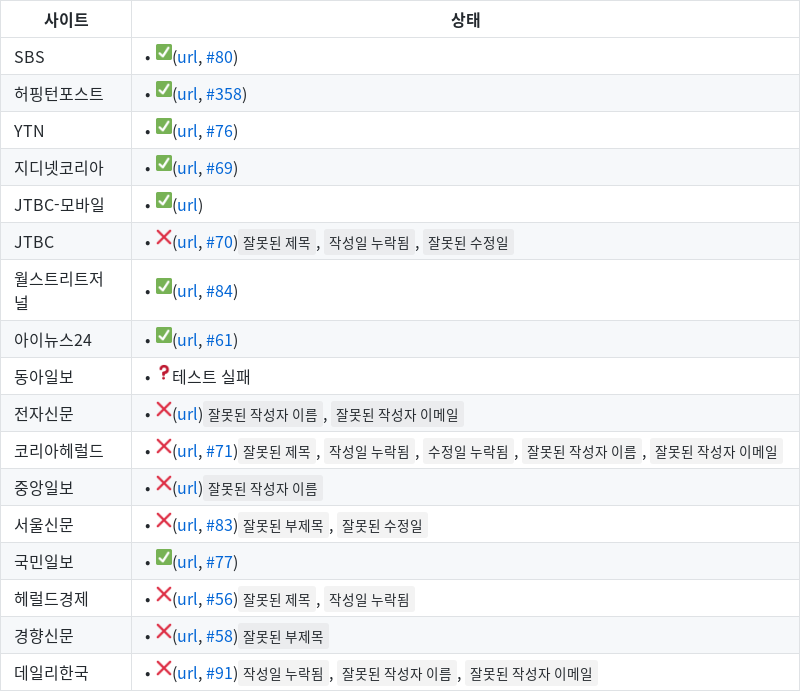
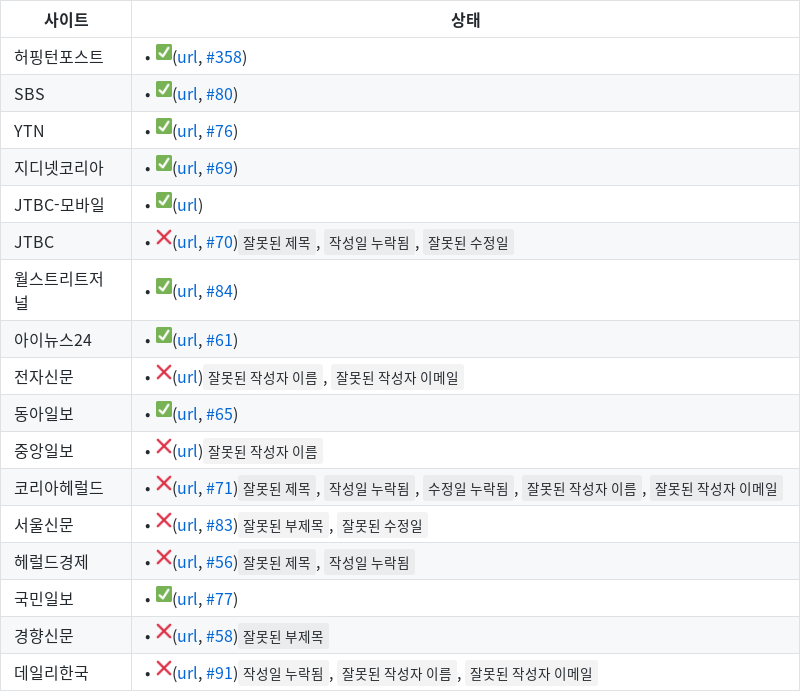
Thu Oct 15 00:53:39 UTC 2020

diff --git a/health-check.md b/health-check.md
@@ -1,19 +1,19 @@
 | 사이트 | 상태 |
 |------|-------|
-| SBS | • ✅([url](https://news.sbs.co.kr/news/endPage.do?news_id=N1002697236), [#80](https://github.com/disjukr/just-news/issues/#80)) |
 | 허핑턴포스트 | • ✅([url](https://www.huffingtonpost.kr/entry/story_kr_5d36a558e4b004b6adb5029c?9e4), [#358](https://github.com/disjukr/just-news/issues/#358)) |
+| SBS | • ✅([url](https://news.sbs.co.kr/news/endPage.do?news_id=N1002697236), [#80](https://github.com/disjukr/just-news/issues/#80)) |
 | YTN | • ✅([url](https://www.ytn.co.kr/_ln/0103_201411190800481989), [#76](https://github.com/disjukr/just-news/issues/#76)) |
 | 지디넷코리아 | • ✅([url](http://www.zdnet.co.kr/view/?no=20141104074223), [#69](https://github.com/disjukr/just-news/issues/#69)) |
 | JTBC-모바일 | • ✅([url](http://mnews.jtbc.joins.com/News/Article.aspx?news_id=NB11866214)) |
 | JTBC | • ❌([url](http://news.jtbc.joins.com/article/article.aspx?news_id=NB10639468), [#70](https://github.com/disjukr/just-news/issues/#70))`잘못된 제목`, `작성일 누락됨`, `잘못된 수정일` |
 | 월스트리트저널 | • ✅([url](https://realtime.wsj.com/korea/2014/10/13/%EB%B0%95%EC%9B%90%EC%88%9C-%EC%84%9C%EC%9A%B8%EC%8B%9C%EC%9E%A5-%EB%AF%B8%EA%B5%AD-%EC%96%B8%EB%A1%A0%EC%97%90-%EB%8F%99%EC%84%B1%EA%B2%B0%ED%98%BC-%EC%A7%80%EC%A7%80-%EB%B0%9C%EC%96%B8/), [#84](https://github.com/disjukr/just-news/issues/#84)) |
 | 아이뉴스24 | • ✅([url](http://www.inews24.com/view/860573), [#61](https://github.com/disjukr/just-news/issues/#61)) |
-| 동아일보 | • ❓테스트 실패 |
 | 전자신문 | • ❌([url](http://www.etnews.com/20191031000370?mc=ns_003_00006))`잘못된 작성자 이름`, `잘못된 작성자 이메일` |
-| 코리아헤럴드 | • ❌([url](http://khnews.kheraldm.com/view.php?ud=20141111001137&md=20141111180830_BK&kr=1), [#71](https://github.com/disjukr/just-news/issues/#71))`잘못된 제목`, `작성일 누락됨`, `수정일 누락됨`, `잘못된 작성자 이름`, `잘못된 작성자 이메일` |
+| 동아일보 | • ✅([url](http://news.donga.com/3/03/20141107/67723014/1), [#65](https://github.com/disjukr/just-news/issues/#65)) |
 | 중앙일보 | • ❌([url](https://news.joins.com/article/23621286))`잘못된 작성자 이름` |
+| 코리아헤럴드 | • ❌([url](http://khnews.kheraldm.com/view.php?ud=20141111001137&md=20141111180830_BK&kr=1), [#71](https://github.com/disjukr/just-news/issues/#71))`잘못된 제목`, `작성일 누락됨`, `수정일 누락됨`, `잘못된 작성자 이름`, `잘못된 작성자 이메일` |
 | 서울신문 | • ❌([url](http://seoul.co.kr/news/newsView.php?id=20141204500025), [#83](https://github.com/disjukr/just-news/issues/#83))`잘못된 부제목`, `잘못된 수정일` |
-| 국민일보 | • ✅([url](http://news.kmib.co.kr/article/view.asp?arcid=0008864720&code=61121111), [#77](https://github.com/disjukr/just-news/issues/#77)) |
 | 헤럴드경제 | • ❌([url](http://news.heraldcorp.com/view.php?ud=20141023000202&md=20141023091209_BK), [#56](https://github.com/disjukr/just-news/issues/#56))`잘못된 제목`, `작성일 누락됨` |
+| 국민일보 | • ✅([url](http://news.kmib.co.kr/article/view.asp?arcid=0008864720&code=61121111), [#77](https://github.com/disjukr/just-news/issues/#77)) |
 | 경향신문 | • ❌([url](http://biz.khan.co.kr/khan_art_view.html?artid=201410311921301&code=920100&med=khan), [#58](https://github.com/disjukr/just-news/issues/#58))`잘못된 부제목` |
 | 데일리한국 | • ❌([url](http://daily.hankooki.com/lpage/politics/201412/dh20141219103740137430.htm), [#91](https://github.com/disjukr/just-news/issues/#91))`작성일 누락됨`, `잘못된 작성자 이름`, `잘못된 작성자 이메일` |
